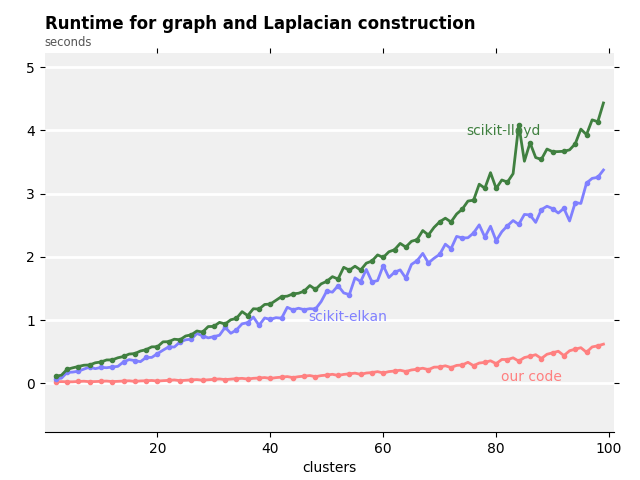
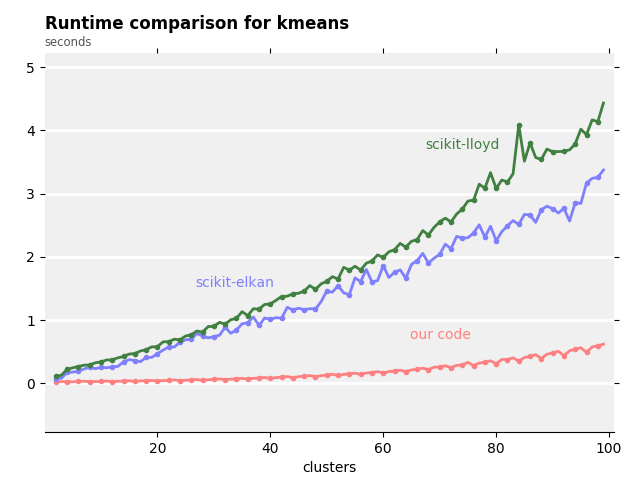
measurements

diff --git a/benchmarks/scikit/measurements/growing_k/fastcodeTemplate.py b/benchmarks/scikit/measurements/growing_k/fastcodeTemplate.py
@@ -196,7 +196,7 @@ def generate_graph(ifpath, ofpath, title, ylabel, logx=False, yscale=1.0):
 
             d_ = math.sqrt(abs(d)) * .011 * len(ylabels[c])
             dsx =  -s * d_
-            dsy = .06 + d_
+            dsy = .10 + d_
             #print d, x, y, dsx, dsy, dX, dY
 
             candidates.append((calcScore(x + dsx, y + dsy), x + dsx, y + dsy))
